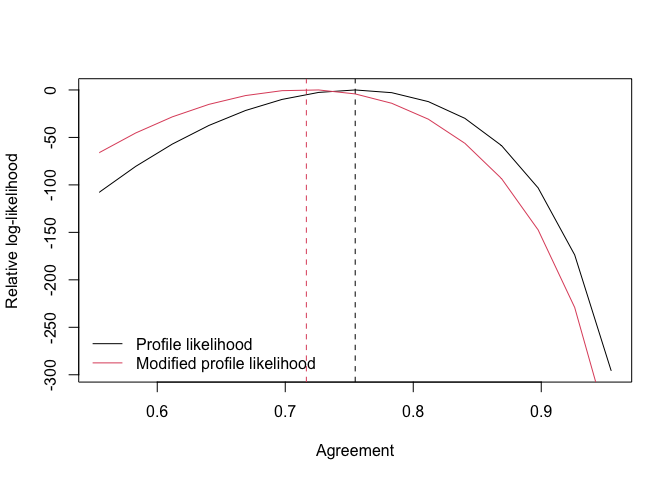
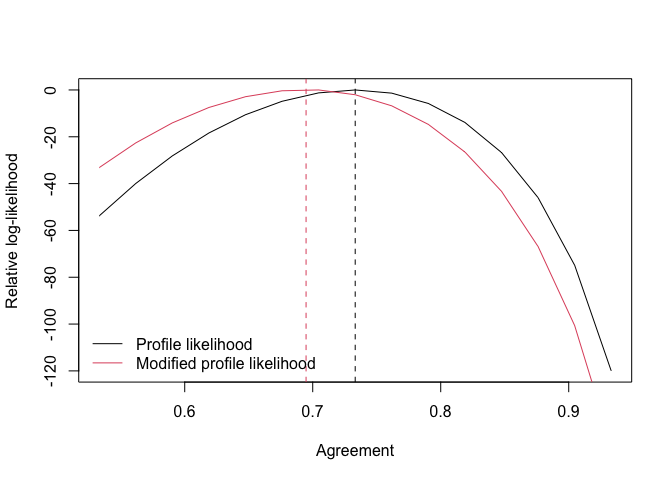
update readme

diff --git a/README.md b/README.md
@@ -34,7 +34,7 @@ library(AgreementPhi)
 set.seed(123)
 
 # setting dimension
-items <- 200 
+items <- 100 
 budget_per_item <- 10
 n_obs <- items * budget_per_item
 
@@ -65,7 +65,7 @@ fit_c_p <- agreement(
   ITEM_INDS = dt$id_item,
   METHOD = "profile")
 fit_c_p$pl_agreement
-#> [1] 0.7484841
+#> [1] 0.7352999
 
 # fit via modified profile likelihood
 fit_c_mp <- agreement(
@@ -73,7 +73,7 @@ fit_c_mp <- agreement(
   ITEM_INDS = dt$id_item,
   METHOD = "modified")
 fit_c_mp$mpl_agreement
-#> [1] 0.710219
+#> [1] 0.696586
 ```
 
 We can plot the relative loglikelihood profiles
@@ -88,7 +88,7 @@ and also construct confidence intervals for the estimated agreement
 
 ``` r
 get_ci(fit_c_mp)$agreement_ci
-#> [1] 0.6882283 0.7322098
+#> [1] 0.6652919 0.7278800
 ```
 
 Consider now ratings collected on Likert-type rating. To allow for a
@@ -109,28 +109,28 @@ fit_k3_p <- agreement(
   ITEM_INDS = dt$id_item,
   METHOD = "profile")
 fit_k3_p$pl_agreement
-#> [1] 0.7800485
+#> [1] 0.7246408
 
 fit_k3_mp <- agreement(
   RATINGS = rating_k3,
   ITEM_INDS = dt$id_item,
   METHOD = "modified")
 fit_k3_mp$mpl_agreement
-#> [1] 0.7379317
+#> [1] 0.6809393
 
 fit_k6_p <- agreement(
   RATINGS = rating_k6,
   ITEM_INDS = dt$id_item,
   METHOD = "profile")
 fit_k6_p$pl_agreement
-#> [1] 0.7546466
+#> [1] 0.7331879
 
 fit_k6_mp <- agreement(
   RATINGS = rating_k6,
   ITEM_INDS = dt$id_item,
   METHOD = "modified")
 fit_k6_mp$mpl_agreement
-#> [1] 0.7164941
+#> [1] 0.6948001
 ```
 
 Also in case of ordinal data we can plot the profiles of the relative
@@ -146,7 +146,7 @@ and construct confidence intervals
 
 ``` r
 get_ci(fit_k3_mp)$agreement_ci
-#> [1] 0.7010484 0.7748151
+#> [1] 0.6259187 0.7359599
 get_ci(fit_k6_mp)$agreement_ci
-#> [1] 0.6907040 0.7422842
+#> [1] 0.6579160 0.7316841
 ```
